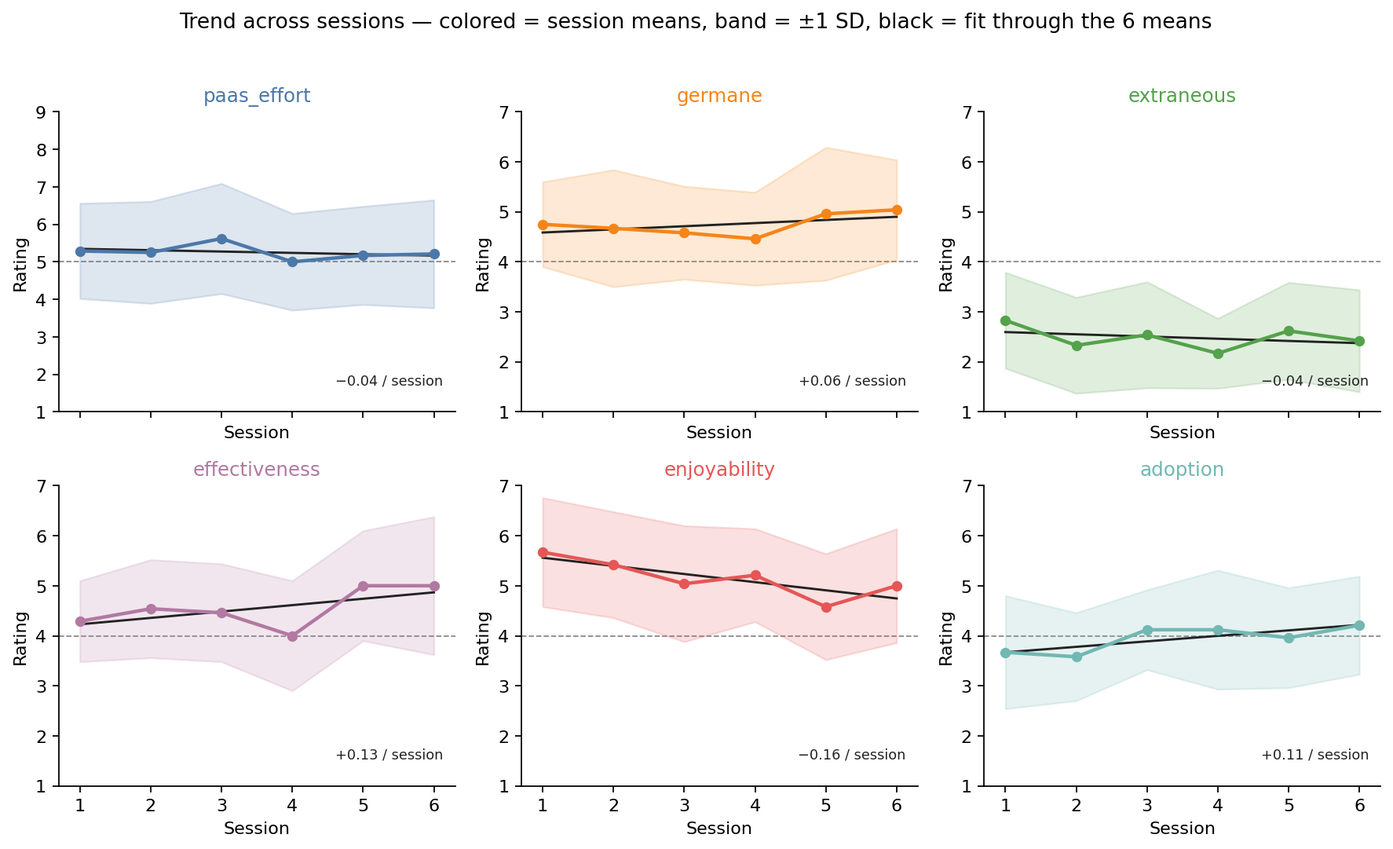
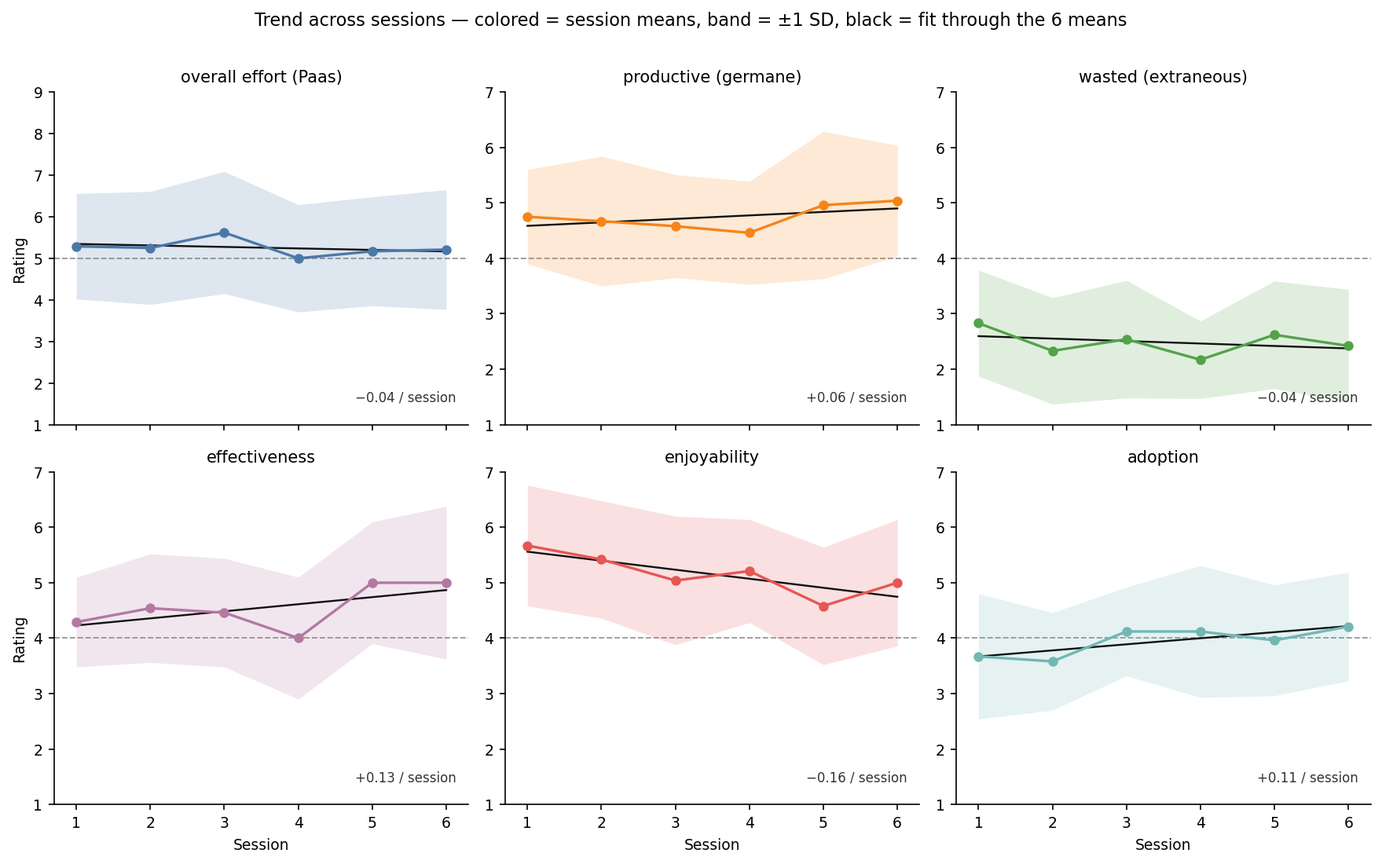
Improve R2

diff --git a/analysis/rq2/sample-report/R2_example_report.md b/analysis/rq2/sample-report/R2_example_report.md
@@ -1,78 +1,82 @@
-# RQ2 — User experience *(illustrative fake data)*
+# RQ2 — User experience _(illustrative fake data)_
 
-**Question.** How do users experience SoftVoicesAI: cognitive load (productive vs wasted), effectiveness, enjoyment, and willingness to adopt?
+**Question.** How do users experience the interface: cognitive load (productive vs wasted), perceived effectiveness, enjoyability, and willingness to adopt?
 
 **Data.**
+
 - N = 24.
 - Per-session: one item each, 6 sessions.
 - End-of-study: 3-item scales of the same constructs, plus one Paas item (1–9).
 
 **Descriptive only.**
+
 - Person is the unit: each per-session score below is that person’s mean across 6 sessions, unless a figure is explicitly by session.
 
 **How to read the scales.**
-- Paas 1–9: 5 = medium effort.
-- Items 2–6: 1–7, **4 = midpoint**. Above 4 = leans agree; below 4 = leans disagree.
-- For wasted effort, *lower is better*.
+
+- Paas 1–9: overall mental effort; 5 = medium.
+- Likert 1–7: **4 = midpoint**. Above 4 = leans agree; below 4 = leans disagree.
+- For wasted effort, _lower is better_.
 
 ---
 
 ## 1. Overall experience
 
 - Each **dot** is one person (mean of their 6 session ratings).
-- **Filled diamond** = per-session mean; bar = **±1 SD**.
+- **Open diamond** = per-session mean; bar = **±1 SD**.
 - **Open square** = end-of-study mean (the group, not 24 extra dots).
 - Dashed line = scale midpoint.
 
 ![Overall experience](./img/01_overall_experience.png)
 
 **Read.**
+
 - Effort was moderate (Paas session mean 5.26 / 9, SD 0.79; end-of-study 5.21).
 - People slightly agreed that the effort was worthwhile (germane 4.74) and that comments helped them think (effectiveness 4.55).
 - They enjoyed the sessions (5.15).
 - They **disagreed** that effort was wasted (extraneous 2.48).
 - Adoption sat near the midpoint (3.94): not rejection, not enthusiasm.
-- Open squares sit next to the diamonds — the retrospective means land in the same place as the session means.
+- Open squares sit next to the diamonds — retrospective means land with the session means.
 
 **Matching table** (diamond = session mean ± SD; square = end-of-study mean):
 
-| measure | session mean | SD | min | max | end-of-study mean | n |
-| --- | --- | --- | --- | --- | --- | --- |
-| paas_effort | 5.26 | 0.79 | 3.50 | 6.67 | 5.21 | 24 |
-| germane | 4.74 | 0.69 | 3.00 | 6.17 | 4.75 | 24 |
-| extraneous | 2.48 | 0.60 | 1.33 | 3.50 | 2.65 | 24 |
-| effectiveness | 4.55 | 0.77 | 2.83 | 5.83 | 4.42 | 24 |
-| enjoyability | 5.15 | 0.84 | 3.67 | 6.50 | 5.33 | 24 |
-| adoption | 3.94 | 0.64 | 2.83 | 5.50 | 4.04 | 24 |
+| measure       | session mean | SD   | min  | max  | end-of-study mean | n   |
+| ------------- | ------------ | ---- | ---- | ---- | ----------------- | --- |
+| paas_effort   | 5.26         | 0.79 | 3.50 | 6.67 | 5.21              | 24  |
+| germane       | 4.74         | 0.69 | 3.00 | 6.17 | 4.75              | 24  |
+| extraneous    | 2.48         | 0.60 | 1.33 | 3.50 | 2.65              | 24  |
+| effectiveness | 4.55         | 0.77 | 2.83 | 5.83 | 4.42              | 24  |
+| enjoyability  | 5.15         | 0.84 | 3.67 | 6.50 | 5.33              | 24  |
+| adoption      | 3.94         | 0.64 | 2.83 | 5.50 | 4.04              | 24  |
 
 **Person-level values plotted as dots:**
 
 | participant_id | paas_effort | germane | extraneous | effectiveness | enjoyability | adoption |
-| --- | --- | --- | --- | --- | --- | --- |
-| 1 | 4.83 | 5.17 | 1.83 | 4.50 | 5.17 | 4.17 |
-| 2 | 4.67 | 3.83 | 2.50 | 3.00 | 4.67 | 3.83 |
-| 3 | 5.67 | 5.33 | 2.33 | 5.33 | 6.17 | 4.00 |
-| 4 | 5.67 | 5.67 | 2.83 | 4.83 | 6.50 | 4.00 |
-| 5 | 6.67 | 3.00 | 3.33 | 2.83 | 4.00 | 3.50 |
-| 6 | 5.67 | 4.17 | 3.50 | 5.33 | 4.00 | 3.67 |
-| 7 | 6.50 | 4.50 | 2.83 | 4.50 | 6.17 | 4.33 |
-| 8 | 4.83 | 4.33 | 2.67 | 5.00 | 4.33 | 3.50 |
-| 9 | 4.83 | 4.33 | 2.67 | 4.17 | 5.00 | 3.67 |
-| 10 | 3.50 | 5.00 | 3.50 | 4.67 | 4.00 | 3.33 |
-| 11 | 5.00 | 5.00 | 1.83 | 4.67 | 5.17 | 4.50 |
-| 12 | 6.17 | 6.17 | 1.67 | 5.00 | 4.83 | 4.50 |
-| 13 | 5.33 | 4.50 | 1.50 | 4.67 | 5.33 | 3.67 |
-| 14 | 4.33 | 5.17 | 2.33 | 3.67 | 6.00 | 4.67 |
-| 15 | 3.67 | 4.83 | 2.83 | 5.00 | 5.00 | 3.83 |
-| 16 | 5.67 | 4.50 | 2.50 | 4.33 | 3.67 | 3.00 |
-| 17 | 5.50 | 6.00 | 3.00 | 5.00 | 5.83 | 3.67 |
-| 18 | 6.00 | 5.17 | 2.83 | 3.00 | 5.00 | 3.33 |
-| 19 | 5.00 | 4.33 | 2.50 | 5.33 | 6.50 | 5.50 |
-| 20 | 4.83 | 4.50 | 2.33 | 4.17 | 6.33 | 3.50 |
-| 21 | 5.33 | 4.67 | 2.17 | 4.50 | 5.50 | 4.50 |
-| 22 | 5.33 | 4.67 | 3.00 | 5.00 | 4.33 | 2.83 |
-| 23 | 6.17 | 5.00 | 1.33 | 5.83 | 5.00 | 5.17 |
-| 24 | 5.00 | 4.00 | 1.83 | 4.83 | 5.17 | 4.00 |
+| -------------- | ----------- | ------- | ---------- | ------------- | ------------ | -------- |
+| 1              | 4.83        | 5.17    | 1.83       | 4.50          | 5.17         | 4.17     |
+| 2              | 4.67        | 3.83    | 2.50       | 3.00          | 4.67         | 3.83     |
+| 3              | 5.67        | 5.33    | 2.33       | 5.33          | 6.17         | 4.00     |
+| 4              | 5.67        | 5.67    | 2.83       | 4.83          | 6.50         | 4.00     |
+| 5              | 6.67        | 3.00    | 3.33       | 2.83          | 4.00         | 3.50     |
+| 6              | 5.67        | 4.17    | 3.50       | 5.33          | 4.00         | 3.67     |
+| 7              | 6.50        | 4.50    | 2.83       | 4.50          | 6.17         | 4.33     |
+| 8              | 4.83        | 4.33    | 2.67       | 5.00          | 4.33         | 3.50     |
+| 9              | 4.83        | 4.33    | 2.67       | 4.17          | 5.00         | 3.67     |
+| 10             | 3.50        | 5.00    | 3.50       | 4.67          | 4.00         | 3.33     |
+| 11             | 5.00        | 5.00    | 1.83       | 4.67          | 5.17         | 4.50     |
+| 12             | 6.17        | 6.17    | 1.67       | 5.00          | 4.83         | 4.50     |
+| 13             | 5.33        | 4.50    | 1.50       | 4.67          | 5.33         | 3.67     |
+| 14             | 4.33        | 5.17    | 2.33       | 3.67          | 6.00         | 4.67     |
+| 15             | 3.67        | 4.83    | 2.83       | 5.00          | 5.00         | 3.83     |
+| 16             | 5.67        | 4.50    | 2.50       | 4.33          | 3.67         | 3.00     |
+| 17             | 5.50        | 6.00    | 3.00       | 5.00          | 5.83         | 3.67     |
+| 18             | 6.00        | 5.17    | 2.83       | 3.00          | 5.00         | 3.33     |
+| 19             | 5.00        | 4.33    | 2.50       | 5.33          | 6.50         | 5.50     |
+| 20             | 4.83        | 4.50    | 2.33       | 4.17          | 6.33         | 3.50     |
+| 21             | 5.33        | 4.67    | 2.17       | 4.50          | 5.50         | 4.50     |
+| 22             | 5.33        | 4.67    | 3.00       | 5.00          | 4.33         | 2.83     |
+| 23             | 6.17        | 5.00    | 1.33       | 5.83          | 5.00         | 5.17     |
+| 24             | 5.00        | 4.00    | 1.83       | 4.83          | 5.17         | 4.00     |
 
 ---
 
@@ -86,21 +90,22 @@
 ![Trend across sessions](./img/02_trends.png)
 
 **Read.**
-- If the black line is almost horizontal **and** the colored dots wander around it, the measure is flat. Paas, germane, and extraneous are in that bucket.
+
+- If the black line is almost horizontal **and** the six session means wander around it, the measure is flat. Paas, germane, and extraneous are in that bucket.
 - **Enjoyability** is the one clear tilt: 5.67 in session 1 → 5.00 in session 6 (−0.16 / session). Novelty fade, not a collapse — session 6 is still above the midpoint.
-- Effectiveness (+0.13 / session) and adoption (+0.11 / session) slope up a little, but the path is jumpy (dip at S4, then a step). Trust S1 vs S6 more than the straight line.
-- Wasted effort stays low the whole way. The grey band is ~1 point wide, so 0.3 wiggles are small next to how much people disagree with each other.
+- Effectiveness (+0.13 / session) and adoption (+0.11 / session) slope up a little, but the path is jumpy (dip at S4, then a step). Trust S1 vs S6 more than the straight line. Posts are rotated, so that dip is not one post.
+- Wasted effort stays low the whole way. ±1 SD is ~1 point, so 0.3 wiggles are small next to how much people disagree with each other.
 
 **Matching table** — each cell is mean (SD), n = 24. Fit slope is the black line.
 
-| measure | S1 | S2 | S3 | S4 | S5 | S6 | fit slope |
-| --- | --- | --- | --- | --- | --- | --- | --- |
-| paas_effort | 5.29 (1.27) | 5.25 (1.36) | 5.62 (1.47) | 5.00 (1.29) | 5.17 (1.31) | 5.21 (1.44) | −0.04 / session |
-| germane | 4.75 (0.85) | 4.67 (1.17) | 4.58 (0.93) | 4.46 (0.93) | 4.96 (1.33) | 5.04 (1.00) | +0.06 / session |
-| extraneous | 2.83 (0.96) | 2.33 (0.96) | 2.54 (1.06) | 2.17 (0.70) | 2.62 (0.97) | 2.42 (1.02) | −0.04 / session |
+| measure       | S1          | S2          | S3          | S4          | S5          | S6          | fit slope       |
+| ------------- | ----------- | ----------- | ----------- | ----------- | ----------- | ----------- | --------------- |
+| paas_effort   | 5.29 (1.27) | 5.25 (1.36) | 5.62 (1.47) | 5.00 (1.29) | 5.17 (1.31) | 5.21 (1.44) | −0.04 / session |
+| germane       | 4.75 (0.85) | 4.67 (1.17) | 4.58 (0.93) | 4.46 (0.93) | 4.96 (1.33) | 5.04 (1.00) | +0.06 / session |
+| extraneous    | 2.83 (0.96) | 2.33 (0.96) | 2.54 (1.06) | 2.17 (0.70) | 2.62 (0.97) | 2.42 (1.02) | −0.04 / session |
 | effectiveness | 4.29 (0.81) | 4.54 (0.98) | 4.46 (0.98) | 4.00 (1.10) | 5.00 (1.10) | 5.00 (1.38) | +0.13 / session |
-| enjoyability | 5.67 (1.09) | 5.42 (1.06) | 5.04 (1.16) | 5.21 (0.93) | 4.58 (1.06) | 5.00 (1.14) | −0.16 / session |
-| adoption | 3.67 (1.13) | 3.58 (0.88) | 4.12 (0.80) | 4.12 (1.19) | 3.96 (1.00) | 4.21 (0.98) | +0.11 / session |
+| enjoyability  | 5.67 (1.09) | 5.42 (1.06) | 5.04 (1.16) | 5.21 (0.93) | 4.58 (1.06) | 5.00 (1.14) | −0.16 / session |
+| adoption      | 3.67 (1.13) | 3.58 (0.88) | 4.12 (0.80) | 4.12 (1.19) | 3.96 (1.00) | 4.21 (0.98) | +0.11 / session |
 
 ---
 
@@ -108,93 +113,95 @@
 
 Fuller 3-item versions, one score per person (n = 24). Paas is a single item, so no alpha. No figure: this table is the result. Group means also appear as the open squares in Section 1.
 
-| scale | α | mean | SD |
-| --- | --- | --- | --- |
-| paas_effort | — | 5.21 | 0.98 |
-| germane | 0.76 | 4.75 | 0.84 |
-| extraneous | 0.79 | 2.65 | 0.73 |
+| scale         | α    | mean | SD   |
+| ------------- | ---- | ---- | ---- |
+| paas_effort   | —    | 5.21 | 0.98 |
+| germane       | 0.76 | 4.75 | 0.84 |
+| extraneous    | 0.79 | 2.65 | 0.73 |
 | effectiveness | 0.86 | 4.42 | 1.10 |
-| enjoyability | 0.81 | 5.33 | 0.90 |
-| adoption | 0.58 | 4.04 | 0.76 |
+| enjoyability  | 0.81 | 5.33 | 0.90 |
+| adoption      | 0.58 | 4.04 | 0.76 |
 
 **Read.**
+
 - Four scales hang together (α ≥ .70) — averaging the 3 items is fine.
 - Retrospective scores match the per-session story: moderate effort, productive not wasted, mild effectiveness, clear enjoyment, lukewarm adoption.
 
 **Adoption (α = 0.58).** Items do not move as one. Report the pieces:
 
-| item | mean | SD |
-| --- | --- | --- |
-| I'd use a tool like this if available | 4.67 | 0.87 |
-| I'd recommend it to a friend | 3.75 | 1.22 |
+| item                                        | mean | SD   |
+| ------------------------------------------- | ---- | ---- |
+| I'd use a tool like this if available       | 4.67 | 0.87 |
+| I'd recommend it to a friend                | 3.75 | 1.22 |
 | I'd want this built into apps I already use | 3.71 | 0.95 |
 
 - People are more willing to **use it themselves** than to recommend it or want it in existing apps.
 - Do not treat α = 0.58 as a failed study; do not hide it either.
-- The Section 4 *r* for adoption is against this mushy average — read it loosely. The per-session item is closest to “I’d use it.”
+- The Section 4 _r_ for adoption is against this loose average — read it loosely. The per-session item is closest to “I’d use it.”
 
 ---
 
 ## 4. Do the light items match the full scales?
 
 - One dot = one person.
-- **Dashed line** = same number both times (*y = x*).
+- **Dashed line** = same number both times (_y = x_).
 - **Solid line** = best-fit: if I know the session average, what end-of-study score should I expect?
-- ***r*** = **Pearson** correlation: how tightly the dots hug the **solid** line, not the dashed one. Pearson matches that OLS line (it is the standardized slope). Spearman is not used here.
+- **_r_** = **Pearson** correlation: how tightly the dots hug the **solid** line, not the dashed one. Pearson matches that OLS line (it is the standardized slope). Spearman is not used here.
 
 ![Cross-check](./img/03_crosscheck.png)
 
-| | What *r* means here |
-| --- | --- |
-| ~.80+ | Thin cigar around the solid line — the light item tracked the full scale |
+|          | What _r_ means here                                                               |
+| -------- | --------------------------------------------------------------------------------- |
+| ~.80+    | Thin cigar around the solid line — the light item tracked the full scale          |
 | ~.50–.70 | Same direction, fatter cloud — trust the **pattern**, not a person’s exact number |
-| <.50 | Round / tall smear — the two questionnaires are not measuring the same thing |
+| <.50     | Round / tall smear — the two questionnaires are not measuring the same thing      |
 
 **Read.**
-- Enjoyability (*r* = 0.90) and Paas (*r* = 0.85): thin along the solid line, and that line sits on the dashed diagonal — same ordering **and** similar numbers.
-- Germane (*r* = 0.80) is usable.
-- Adoption (*r* = 0.64) and extraneous (*r* = 0.69) are weaker (fatter around the solid line). Adoption’s *r* is also against a scale with α = .58.
-- Effectiveness (*r* = 0.50) is the mismatch: at a session mean of ~4.5, end-of-study scores run from about 2.7 to 6.3. That vertical smear **is** the lower *r*. In-the-moment “this session helped” and retrospective “the tool improved my thinking” are related but not the same. Expected with one item vs three; keep the per-session item.
+
+- Enjoyability (_r_ = 0.90) and Paas (_r_ = 0.85): thin along the solid line, and that line sits on the dashed diagonal — same ordering **and** similar numbers.
+- Germane (_r_ = 0.80) is usable.
+- Adoption (_r_ = 0.64) and extraneous (_r_ = 0.69) are weaker (fatter around the solid line). Adoption’s _r_ is also against a scale with α = .58.
+- Effectiveness (_r_ = 0.50) is the mismatch: at a session mean of ~4.5, end-of-study scores run from about 2.7 to 6.3. That vertical smear **is** the lower _r_. In-the-moment “this session helped” and retrospective “the tool improved my thinking” are related but not the same.
 
 **Matching table** (same pairs as the figure):
 
-| measure | Pearson r | per-session mean | end-of-study mean |
-| --- | --- | --- | --- |
-| paas_effort | 0.85 | 5.26 | 5.21 |
-| germane | 0.80 | 4.74 | 4.75 |
-| extraneous | 0.69 | 2.48 | 2.65 |
-| effectiveness | 0.50 | 4.55 | 4.42 |
-| enjoyability | 0.90 | 5.15 | 5.33 |
-| adoption | 0.64 | 3.94 | 4.04 |
+| measure       | Pearson r | per-session mean | end-of-study mean |
+| ------------- | --------- | ---------------- | ----------------- |
+| paas_effort   | 0.85      | 5.26             | 5.21              |
+| germane       | 0.80      | 4.74             | 4.75              |
+| extraneous    | 0.69      | 2.48             | 2.65              |
+| effectiveness | 0.50      | 4.55             | 4.42              |
+| enjoyability  | 0.90      | 5.15             | 5.33              |
+| adoption      | 0.64      | 3.94             | 4.04              |
 
 **Person-level values plotted as dots:**
 
 | participant_id | paas_effort_ps | paas_effort_eos | germane_ps | germane_eos | extraneous_ps | extraneous_eos | effectiveness_ps | effectiveness_eos | enjoyability_ps | enjoyability_eos | adoption_ps | adoption_eos |
-| --- | --- | --- | --- | --- | --- | --- | --- | --- | --- | --- | --- | --- |
-| 1 | 4.83 | 5.00 | 5.17 | 4.67 | 1.83 | 2.00 | 4.50 | 2.67 | 5.17 | 5.67 | 4.17 | 4.33 |
-| 2 | 4.67 | 5.00 | 3.83 | 4.00 | 2.50 | 2.67 | 3.00 | 4.00 | 4.67 | 5.00 | 3.83 | 4.33 |
-| 3 | 5.67 | 5.00 | 5.33 | 6.00 | 2.33 | 2.67 | 5.33 | 3.67 | 6.17 | 5.67 | 4.00 | 3.33 |
-| 4 | 5.67 | 6.00 | 5.67 | 6.00 | 2.83 | 3.33 | 4.83 | 3.00 | 6.50 | 7.00 | 4.00 | 4.00 |
-| 5 | 6.67 | 7.00 | 3.00 | 2.67 | 3.33 | 3.33 | 2.83 | 4.33 | 4.00 | 4.00 | 3.50 | 3.00 |
-| 6 | 5.67 | 5.00 | 4.17 | 5.00 | 3.50 | 3.67 | 5.33 | 6.00 | 4.00 | 4.33 | 3.67 | 3.00 |
-| 7 | 6.50 | 7.00 | 4.50 | 3.67 | 2.83 | 2.00 | 4.50 | 6.33 | 6.17 | 6.33 | 4.33 | 4.67 |
-| 8 | 4.83 | 5.00 | 4.33 | 4.33 | 2.67 | 1.67 | 5.00 | 4.67 | 4.33 | 5.00 | 3.50 | 4.00 |
-| 9 | 4.83 | 4.00 | 4.33 | 4.33 | 2.67 | 2.67 | 4.17 | 2.67 | 5.00 | 5.33 | 3.67 | 4.00 |
-| 10 | 3.50 | 4.00 | 5.00 | 4.67 | 3.50 | 3.00 | 4.67 | 4.00 | 4.00 | 4.00 | 3.33 | 2.33 |
-| 11 | 5.00 | 5.00 | 5.00 | 4.67 | 1.83 | 1.67 | 4.67 | 4.67 | 5.17 | 5.33 | 4.50 | 4.67 |
-| 12 | 6.17 | 6.00 | 6.17 | 6.33 | 1.67 | 1.33 | 5.00 | 5.00 | 4.83 | 5.33 | 4.50 | 4.00 |
-| 13 | 5.33 | 5.00 | 4.50 | 5.00 | 1.50 | 2.00 | 4.67 | 5.67 | 5.33 | 6.33 | 3.67 | 4.33 |
-| 14 | 4.33 | 4.00 | 5.17 | 5.00 | 2.33 | 2.33 | 3.67 | 3.00 | 6.00 | 5.33 | 4.67 | 4.00 |
-| 15 | 3.67 | 3.00 | 4.83 | 5.00 | 2.83 | 2.67 | 5.00 | 5.33 | 5.00 | 4.33 | 3.83 | 4.33 |
-| 16 | 5.67 | 6.00 | 4.50 | 4.33 | 2.50 | 3.33 | 4.33 | 3.67 | 3.67 | 3.67 | 3.00 | 4.33 |
-| 17 | 5.50 | 5.00 | 6.00 | 5.67 | 3.00 | 4.33 | 5.00 | 5.33 | 5.83 | 5.67 | 3.67 | 4.00 |
-| 18 | 6.00 | 6.00 | 5.17 | 4.00 | 2.83 | 3.00 | 3.00 | 3.00 | 5.00 | 5.33 | 3.33 | 4.00 |
-| 19 | 5.00 | 4.00 | 4.33 | 3.67 | 2.50 | 3.33 | 5.33 | 4.67 | 6.50 | 7.00 | 5.50 | 5.00 |
-| 20 | 4.83 | 5.00 | 4.50 | 5.00 | 2.33 | 3.00 | 4.17 | 4.33 | 6.33 | 6.33 | 3.50 | 4.00 |
-| 21 | 5.33 | 5.00 | 4.67 | 5.00 | 2.17 | 2.67 | 4.50 | 4.00 | 5.50 | 5.67 | 4.50 | 5.67 |
-| 22 | 5.33 | 6.00 | 4.67 | 5.33 | 3.00 | 3.00 | 5.00 | 5.00 | 4.33 | 4.33 | 2.83 | 2.67 |
-| 23 | 6.17 | 6.00 | 5.00 | 5.33 | 1.33 | 2.00 | 5.83 | 6.33 | 5.00 | 5.33 | 5.17 | 5.00 |
-| 24 | 5.00 | 6.00 | 4.00 | 4.33 | 1.83 | 2.00 | 4.83 | 4.67 | 5.17 | 5.67 | 4.00 | 4.00 |
+| -------------- | -------------- | --------------- | ---------- | ----------- | ------------- | -------------- | ---------------- | ----------------- | --------------- | ---------------- | ----------- | ------------ |
+| 1              | 4.83           | 5.00            | 5.17       | 4.67        | 1.83          | 2.00           | 4.50             | 2.67              | 5.17            | 5.67             | 4.17        | 4.33         |
+| 2              | 4.67           | 5.00            | 3.83       | 4.00        | 2.50          | 2.67           | 3.00             | 4.00              | 4.67            | 5.00             | 3.83        | 4.33         |
+| 3              | 5.67           | 5.00            | 5.33       | 6.00        | 2.33          | 2.67           | 5.33             | 3.67              | 6.17            | 5.67             | 4.00        | 3.33         |
+| 4              | 5.67           | 6.00            | 5.67       | 6.00        | 2.83          | 3.33           | 4.83             | 3.00              | 6.50            | 7.00             | 4.00        | 4.00         |
+| 5              | 6.67           | 7.00            | 3.00       | 2.67        | 3.33          | 3.33           | 2.83             | 4.33              | 4.00            | 4.00             | 3.50        | 3.00         |
+| 6              | 5.67           | 5.00            | 4.17       | 5.00        | 3.50          | 3.67           | 5.33             | 6.00              | 4.00            | 4.33             | 3.67        | 3.00         |
+| 7              | 6.50           | 7.00            | 4.50       | 3.67        | 2.83          | 2.00           | 4.50             | 6.33              | 6.17            | 6.33             | 4.33        | 4.67         |
+| 8              | 4.83           | 5.00            | 4.33       | 4.33        | 2.67          | 1.67           | 5.00             | 4.67              | 4.33            | 5.00             | 3.50        | 4.00         |
+| 9              | 4.83           | 4.00            | 4.33       | 4.33        | 2.67          | 2.67           | 4.17             | 2.67              | 5.00            | 5.33             | 3.67        | 4.00         |
+| 10             | 3.50           | 4.00            | 5.00       | 4.67        | 3.50          | 3.00           | 4.67             | 4.00              | 4.00            | 4.00             | 3.33        | 2.33         |
+| 11             | 5.00           | 5.00            | 5.00       | 4.67        | 1.83          | 1.67           | 4.67             | 4.67              | 5.17            | 5.33             | 4.50        | 4.67         |
+| 12             | 6.17           | 6.00            | 6.17       | 6.33        | 1.67          | 1.33           | 5.00             | 5.00              | 4.83            | 5.33             | 4.50        | 4.00         |
+| 13             | 5.33           | 5.00            | 4.50       | 5.00        | 1.50          | 2.00           | 4.67             | 5.67              | 5.33            | 6.33             | 3.67        | 4.33         |
+| 14             | 4.33           | 4.00            | 5.17       | 5.00        | 2.33          | 2.33           | 3.67             | 3.00              | 6.00            | 5.33             | 4.67        | 4.00         |
+| 15             | 3.67           | 3.00            | 4.83       | 5.00        | 2.83          | 2.67           | 5.00             | 5.33              | 5.00            | 4.33             | 3.83        | 4.33         |
+| 16             | 5.67           | 6.00            | 4.50       | 4.33        | 2.50          | 3.33           | 4.33             | 3.67              | 3.67            | 3.67             | 3.00        | 4.33         |
+| 17             | 5.50           | 5.00            | 6.00       | 5.67        | 3.00          | 4.33           | 5.00             | 5.33              | 5.83            | 5.67             | 3.67        | 4.00         |
+| 18             | 6.00           | 6.00            | 5.17       | 4.00        | 2.83          | 3.00           | 3.00             | 3.00              | 5.00            | 5.33             | 3.33        | 4.00         |
+| 19             | 5.00           | 4.00            | 4.33       | 3.67        | 2.50          | 3.33           | 5.33             | 4.67              | 6.50            | 7.00             | 5.50        | 5.00         |
+| 20             | 4.83           | 5.00            | 4.50       | 5.00        | 2.33          | 3.00           | 4.17             | 4.33              | 6.33            | 6.33             | 3.50        | 4.00         |
+| 21             | 5.33           | 5.00            | 4.67       | 5.00        | 2.17          | 2.67           | 4.50             | 4.00              | 5.50            | 5.67             | 4.50        | 5.67         |
+| 22             | 5.33           | 6.00            | 4.67       | 5.33        | 3.00          | 3.00           | 5.00             | 5.00              | 4.33            | 4.33             | 2.83        | 2.67         |
+| 23             | 6.17           | 6.00            | 5.00       | 5.33        | 1.33          | 2.00           | 5.83             | 6.33              | 5.00            | 5.33             | 5.17        | 5.00         |
+| 24             | 5.00           | 6.00            | 4.00       | 4.33        | 1.83          | 2.00           | 4.83             | 4.67              | 5.17            | 5.67             | 4.00        | 4.00         |
 
 ---
 
@@ -205,45 +212,46 @@ One panel, n = 24 person-means (same germane and extraneous columns as Section 1
 ![Germane vs extraneous](./img/04_germane_vs_extraneous.png)
 
 **Read.**
-- Almost everyone is in **useful, not wasted**: effort felt worthwhile *and* not confusing. That is the cognitive-load answer to RQ2.
+
+- Almost everyone is in **useful, not wasted**: effort felt worthwhile _and_ not confusing. That is the cognitive-load answer to RQ2.
 
 **Quadrant counts** (the four regions in the figure):
 
-| quadrant (lines at 4, 4) | n |
-| --- | --- |
-| useful, not wasted (germane ≥ 4, extraneous < 4) | 22 |
-| hard and confusing (germane ≥ 4, extraneous ≥ 4) | 0 |
-| easy but pointless (germane < 4, extraneous < 4) | 2 |
-| low effort, still confusing (germane < 4, extraneous ≥ 4) | 0 |
+| quadrant (lines at 4, 4)                               | n   |
+| ------------------------------------------------------ | --- |
+| useful, not wasted (germane ≥ 4, extraneous < 4)       | 22  |
+| useful, but confusing (germane ≥ 4, extraneous ≥ 4)    | 0   |
+| pointless, not confusing (germane < 4, extraneous < 4) | 2   |
+| pointless and confusing (germane < 4, extraneous ≥ 4)  | 0   |
 
 **Matching table** (same 24 dots):
 
 | participant_id | germane | extraneous |
-| --- | --- | --- |
-| 1 | 5.17 | 1.83 |
-| 2 | 3.83 | 2.50 |
-| 3 | 5.33 | 2.33 |
-| 4 | 5.67 | 2.83 |
-| 5 | 3.00 | 3.33 |
-| 6 | 4.17 | 3.50 |
-| 7 | 4.50 | 2.83 |
-| 8 | 4.33 | 2.67 |
-| 9 | 4.33 | 2.67 |
-| 10 | 5.00 | 3.50 |
-| 11 | 5.00 | 1.83 |
-| 12 | 6.17 | 1.67 |
-| 13 | 4.50 | 1.50 |
-| 14 | 5.17 | 2.33 |
-| 15 | 4.83 | 2.83 |
-| 16 | 4.50 | 2.50 |
-| 17 | 6.00 | 3.00 |
-| 18 | 5.17 | 2.83 |
-| 19 | 4.33 | 2.50 |
-| 20 | 4.50 | 2.33 |
-| 21 | 4.67 | 2.17 |
-| 22 | 4.67 | 3.00 |
-| 23 | 5.00 | 1.33 |
-| 24 | 4.00 | 1.83 |
+| -------------- | ------- | ---------- |
+| 1              | 5.17    | 1.83       |
+| 2              | 3.83    | 2.50       |
+| 3              | 5.33    | 2.33       |
+| 4              | 5.67    | 2.83       |
+| 5              | 3.00    | 3.33       |
+| 6              | 4.17    | 3.50       |
+| 7              | 4.50    | 2.83       |
+| 8              | 4.33    | 2.67       |
+| 9              | 4.33    | 2.67       |
+| 10             | 5.00    | 3.50       |
+| 11             | 5.00    | 1.83       |
+| 12             | 6.17    | 1.67       |
+| 13             | 4.50    | 1.50       |
+| 14             | 5.17    | 2.33       |
+| 15             | 4.83    | 2.83       |
+| 16             | 4.50    | 2.50       |
+| 17             | 6.00    | 3.00       |
+| 18             | 5.17    | 2.83       |
+| 19             | 4.33    | 2.50       |
+| 20             | 4.50    | 2.33       |
+| 21             | 4.67    | 2.17       |
+| 22             | 4.67    | 3.00       |
+| 23             | 5.00    | 1.33       |
+| 24             | 4.00    | 1.83       |
 
 ---
 
@@ -258,7 +266,7 @@ One panel, n = 24 person-means (same germane and extraneous columns as Section 1
 
 ### Figure index
 
-- `img/01_overall_experience.png` — 24 dots, per-session mean ± 1 SD (diamond), end-of-study mean (square)
+- `img/01_overall_experience.png` — 24 dots, per-session mean ± 1 SD (open diamond), end-of-study mean (open square)
 - `img/02_trends.png` — session means ± 1 SD, plus a straight fit through the 6 means
 - `img/03_crosscheck.png` — per-session average vs end-of-study (dashed = same number, solid = fit)
 - `img/04_germane_vs_extraneous.png` — productive vs wasted effort
